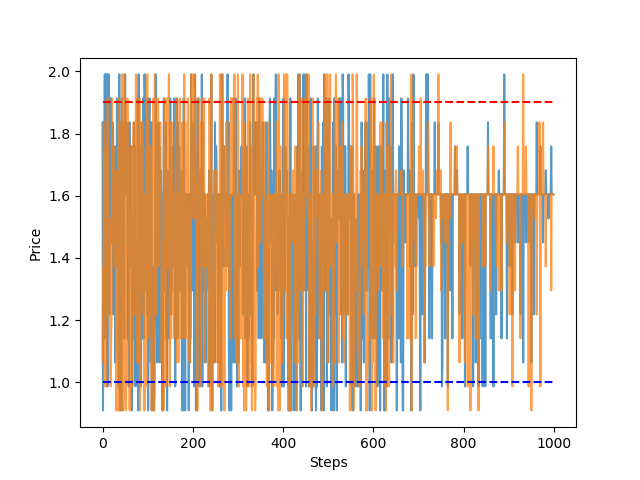
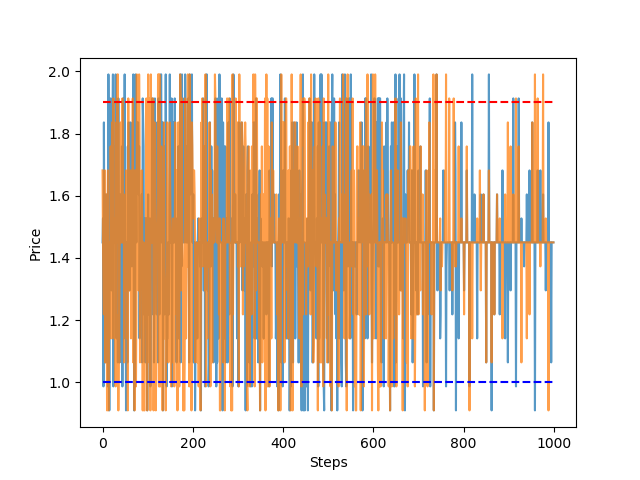
auto

diff --git a/agents/q_learner.py b/agents/q_learner.py
@@ -19,8 +19,9 @@ class Q_Learner():
         self.players = [ 'agent_' + str(i) for i in range(num_agents)]
 
     def train(self):
+        '''Train to fill q_table'''
 
-        q_table = [{}] * self.num_agents
+        self.q_table = [{}] * self.num_agents
 
         # For plotting metrics
         # all_epochs = [] #store the number of epochs per episode
@@ -43,13 +44,13 @@ class Q_Learner():
 
                 actions_dict = {}
                 for agent in range(self.num_agents):
-                    if observation not in q_table[agent]:
-                        q_table[agent][observation] = [0] * self.m
+                    if observation not in self.q_table[agent]:
+                        self.q_table[agent][observation] = [0] * self.m
 
                     if random.uniform(0, 1) < epsilon:
                         actions_dict[self.players[agent]] = self.env.action_space.sample()
                     else:
-                        actions_dict[self.players[agent]] = np.argmax(q_table[agent][observation])
+                        actions_dict[self.players[agent]] = np.argmax(self.q_table[agent][observation])
 
                 next_observation, reward, done, info = self.env.step(actions_dict)
                 done = done['__all__']
@@ -59,13 +60,13 @@ class Q_Learner():
                 last_values = [0] * self.num_agents
                 Q_maxes = [0] * self.num_agents
                 for agent in range(self.num_agents):
-                    if next_observation not in q_table[agent]:
-                        q_table[agent][next_observation] = [0] * self.m
+                    if next_observation not in self.q_table[agent]:
+                        self.q_table[agent][next_observation] = [0] * self.m
                 
-                    last_values[agent] = q_table[agent][observation][actions_dict[self.players[agent]]]
-                    Q_maxes[agent] = np.max(q_table[agent][next_observation])
+                    last_values[agent] = self.q_table[agent][observation][actions_dict[self.players[agent]]]
+                    Q_maxes[agent] = np.max(self.q_table[agent][next_observation])
                 
-                    q_table[agent][observation][actions_dict[self.players[agent]]] = ((1 - self.alpha) * last_values[agent]) + (self.alpha * (reward[self.players[agent]] + self.delta * Q_maxes[agent]))
+                    self.q_table[agent][observation][actions_dict[self.players[agent]]] = ((1 - self.alpha) * last_values[agent]) + (self.alpha * (reward[self.players[agent]] + self.delta * Q_maxes[agent]))
 
                 reward_list.append(reward[self.players[0]])
 

diff --git a/gym_bertrandcompetition/envs/bertrand_competition_discrete.py b/gym_bertrandcompetition/envs/bertrand_competition_discrete.py
@@ -113,21 +113,6 @@ class BertrandCompetitionDiscreteEnv(MultiAgentEnv):
 
         self.current_step += 1
 
-        n = len(self.action_history[self.players[0]])
-
-        if self.plot and n == self.epochs * self.max_steps:
-            x = np.arange(n)
-            for player in self.players:
-                plt.plot(x, self.action_price_space.take(self.action_history[player]), alpha=0.75, label=player)
-            plt.plot(x, np.repeat(self.pM, n), 'r--', label='Monopoly')
-            plt.plot(x, np.repeat(self.pN, n), 'b--', label='Nash')
-            plt.xlabel('Steps')
-            plt.ylabel('Price')
-            plt.title(self.trainer_choice + ' with ' + str(self.num_agents) + ' agents and k=' + str(self.k) + ' for ' + str(self.epochs * self.max_steps) + ' Steps')
-            plt.legend(loc='upper left')
-            plt.savefig('./figures/' + self.trainer_choice + '_with_' + str(self.num_agents) + '_agents_k_' + str(self.k) + '_for_' + str(self.epochs * self.max_steps) + '_steps')
-            plt.clf()
-
         return observation, reward, done, info
 
     def reset(self):
@@ -146,6 +131,21 @@ class BertrandCompetitionDiscreteEnv(MultiAgentEnv):
             observation = dict(zip(self.players, [self.numeric_low for _ in range(self.num_agents)]))
             
         return observation
+
+    def plot(self):
+        '''Plot action history.'''
+        n = len(self.action_history[self.players[0]])
+        x = np.arange(n)
+        for player in self.players:
+            plt.plot(x, self.action_price_space.take(self.action_history[player]), alpha=0.75, label=player)
+        plt.plot(x, np.repeat(self.pM, n), 'r--', label='Monopoly')
+        plt.plot(x, np.repeat(self.pN, n), 'b--', label='Nash')
+        plt.xlabel('Steps')
+        plt.ylabel('Price')
+        plt.title(self.trainer_choice + ' with ' + str(self.num_agents) + ' agents and k=' + str(self.k) + ' for ' + str(self.epochs * self.max_steps) + ' Steps')
+        plt.legend(loc='upper left')
+        plt.savefig('./figures/' + self.trainer_choice + '_with_' + str(self.num_agents) + '_agents_k_' + str(self.k) + '_for_' + str(self.epochs * self.max_steps) + '_steps')
+        plt.clf()
 
     def render(self, mode='human'):
         raise NotImplementedError

diff --git a/gym_bertrand_test.py b/gym_bertrand_test.py
@@ -5,6 +5,7 @@ from agents.q_learner import Q_Learner
 
 import ray
 import numpy as np
+import matplotlib.pyplot as plt
 from ray.tune.registry import register_env
 from ray.rllib.agents.a3c import A3CTrainer
 from ray.rllib.agents.dqn import DQNTrainer
